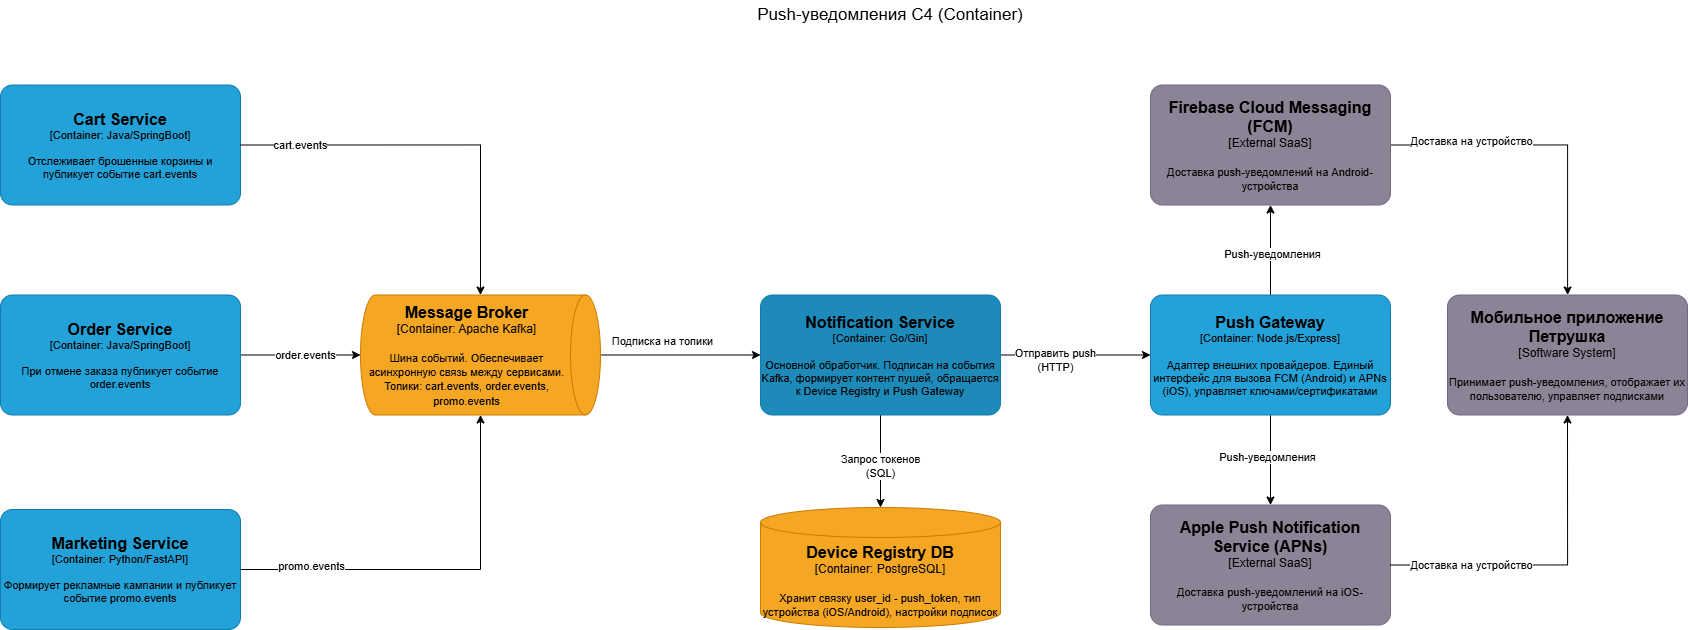
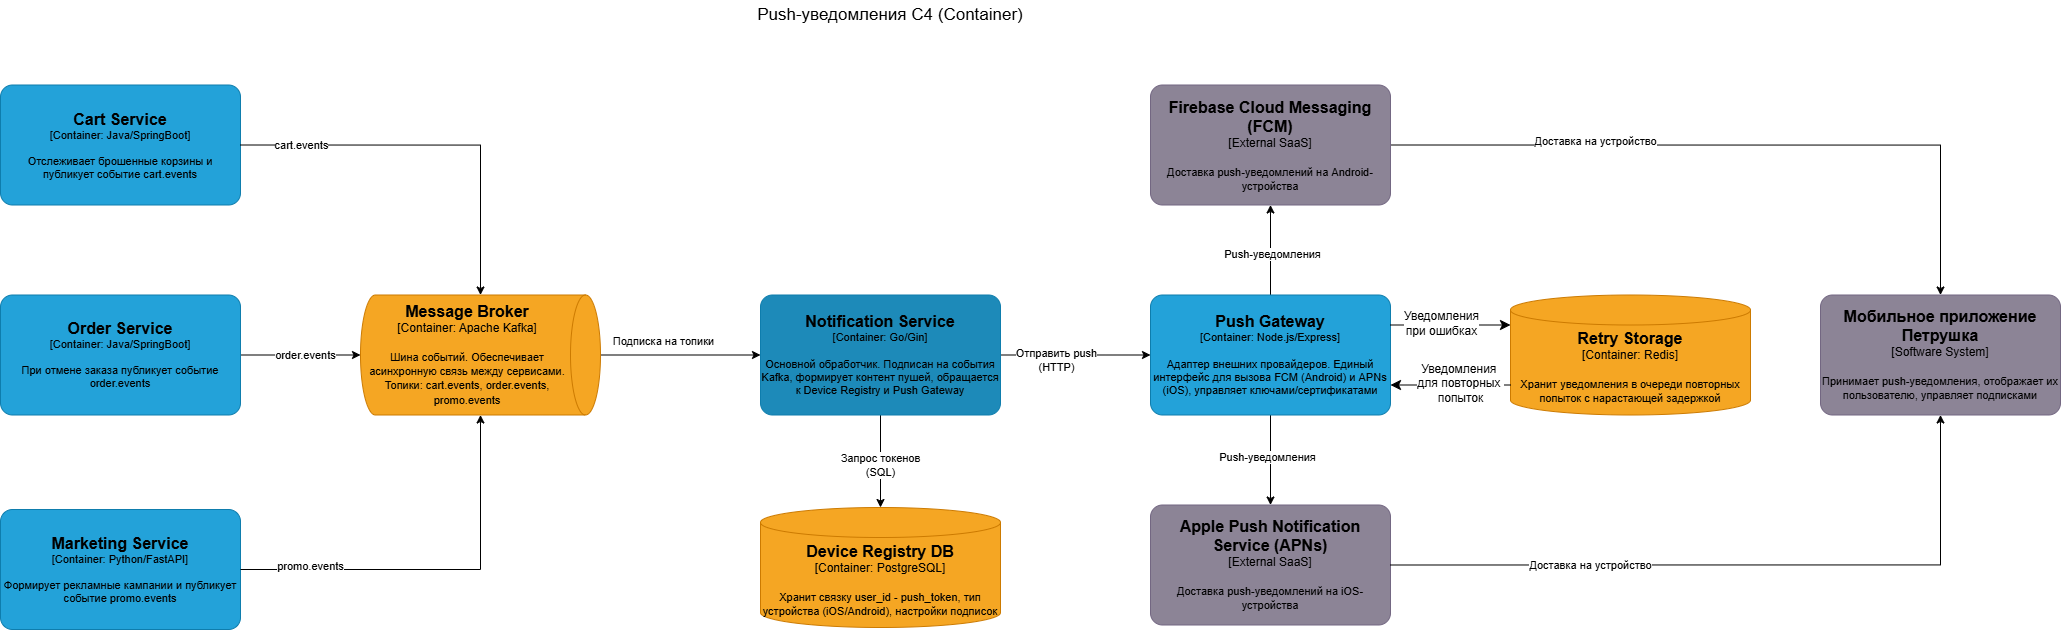
feat(architecture): add retry mechanism and error handling for push notifications

diff --git a/03_Архитектура_push/Описание_архитектуры.md b/03_Архитектура_push/Описание_архитектуры.md
@@ -10,6 +10,7 @@
 - **Notification Service** - подписчик событий, формирует пуши, обращается к Device Registry и Push Gateway.
 - **Device Registry DB** - хранит токены устройств и настройки подписок.
 - **Push Gateway** - адаптер для вызова Firebase (FCM) и Apple Push (APNs).
+- **Retry Storage** - хранит уведомления в Redis-очереди с нарастающей задержкой.
 - **Мобильное приложение** - получает и показывает уведомления.
 
 ## Основные сценарии
@@ -21,3 +22,8 @@ Order Service -> Kafka (`order.events`) -> Notification Service -> ...
 
 ### Рекламная рассылка
 Marketing Service -> Kafka (`promo.events`) -> Notification Service -> ...
+
+## Обработка ошибок и гарантии доставки
+- Push Gateway оборачивает вызовы FCM/APNs в механизм повторных попыток (retry). При ошибке уведомление помещается в Redis-очередь (Retry Storage) с нарастающей задержкой (exponential backoff).
+- После исчерпания заданного числа попыток токен помечается как невалидный в Device Registry DB, и администратору отправляется алерт.
+- Все этапы (отправка, ошибка, повтор, исключение) логируются для аудита и мониторинга.